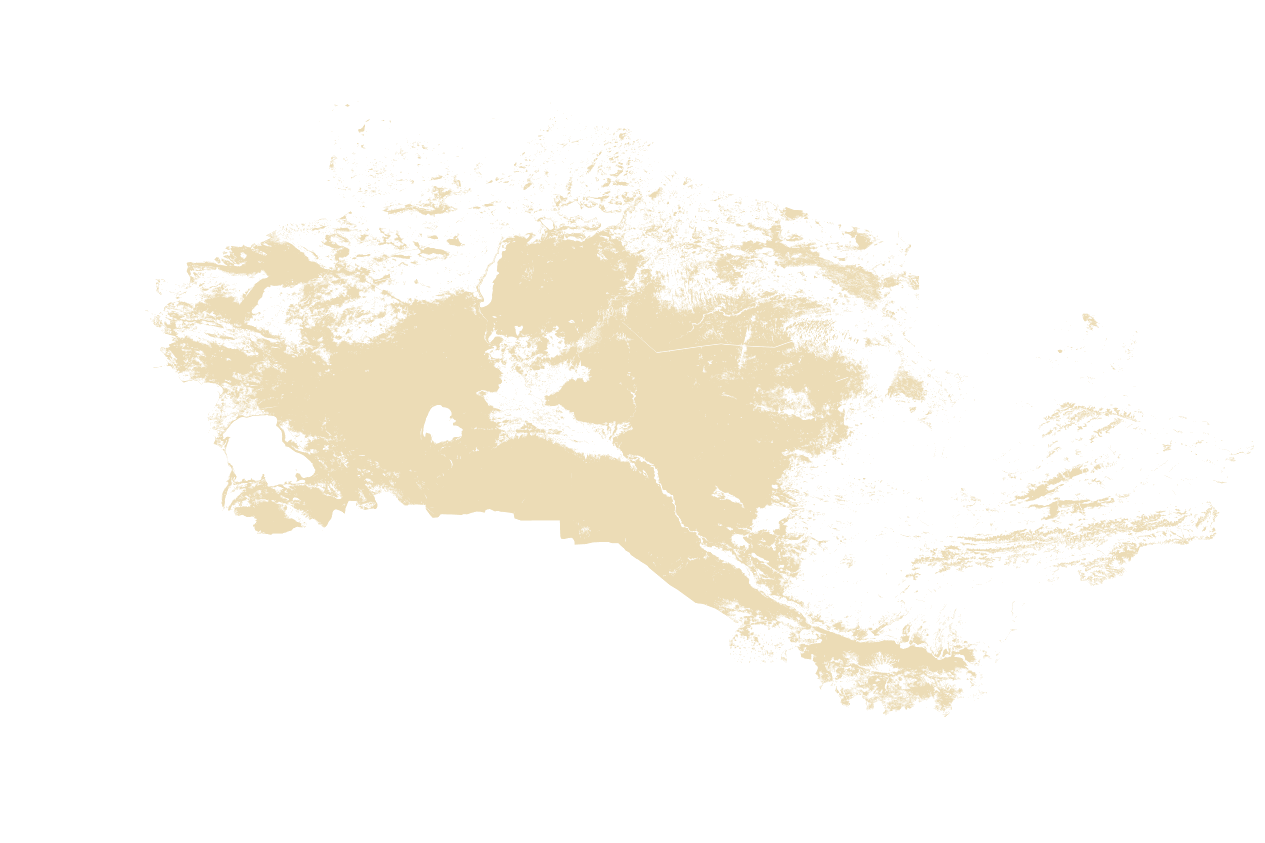
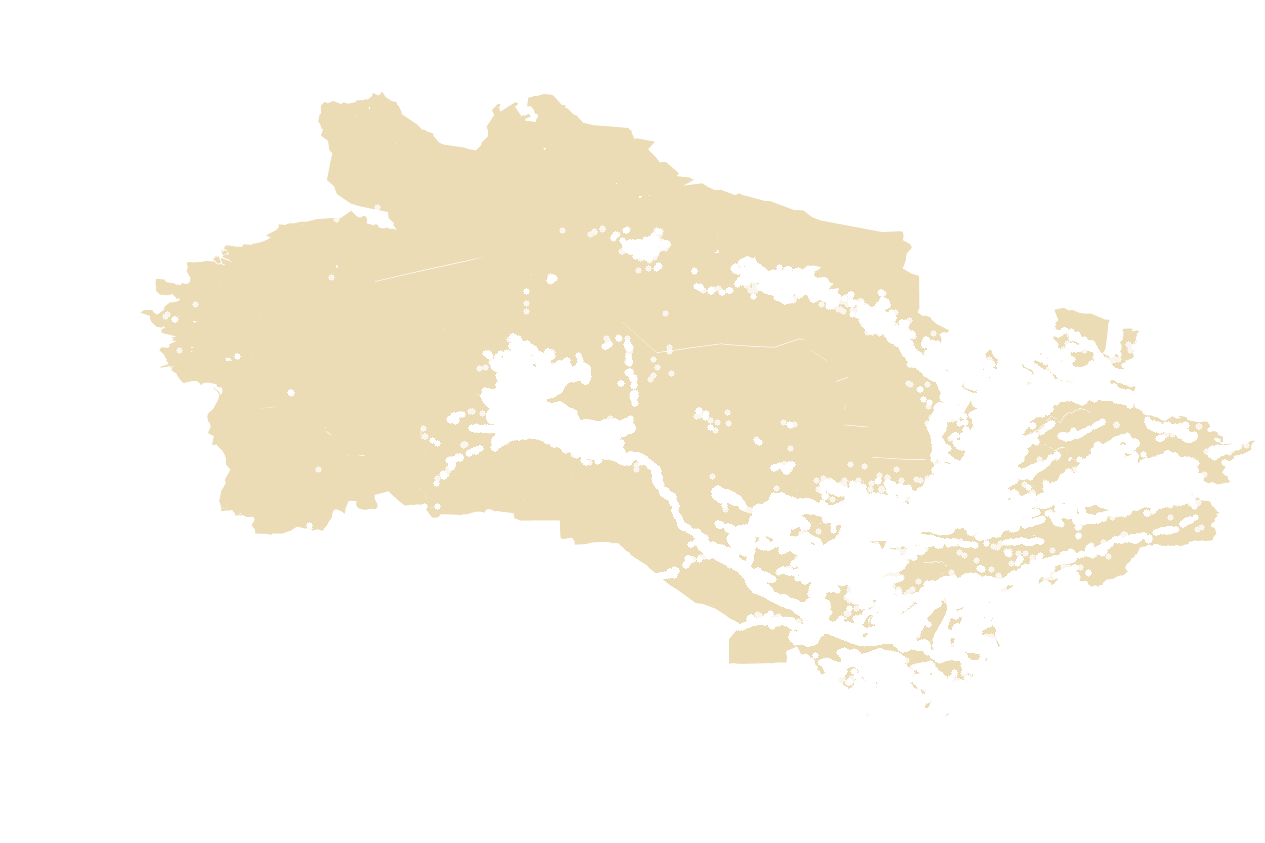
Фенологик харита: экин майдони йўқ ҳамма жой рангсиз (Қўнғирот шимоли) (#73)
Чўл қатлами олдин фақат очиқ чўлни (WorldCover синф 60) ёпарди; Қўнғирот
шимолидаги Устюрт дашти (синф 30, ўтлоқ) туман ранги билан қизил қолган
эди. Энди экин майдонидан ~6 км узоқдаги барча ер (чўл, дашт, бута, тоғ,
сув) рангсизланади; шаҳарлар очиқ қолади. Прогноз нуқталари ўзгармади.

Claude-Session: https://claude.ai/code/session_014j5XR2QLRVf7VUAkdAPGwJ

Changed region(s): [[0.1233, 0.0925, 0.9866, 0.8636], [0.5549, 0.4935, 0.5858, 0.5243]]

diff --git a/plant-protection/fenologik.ru.html b/plant-protection/fenologik.ru.html
@@ -152,7 +152,7 @@
         <div class="lg"><i style="background:#de2d26"></i><b>5</b></div>
         <div class="lg"><i style="background:#a50f15"></i><b>6+</b></div>
         <div class="lg"><i style="background:#90a4ae"></i><b>❄ Неактивен (зимовка)</b></div>
-        <div class="lg"><i style="background:#ead9b0"></i><b>🏜 Пустыня (ESA WorldCover) / нет посевов</b></div>
+        <div class="lg"><i style="background:#ead9b0"></i><b>🏜 Нет посевов (пустыня, степь, горы — ESA WorldCover)</b></div>
         <div class="lg"><i style="background:#fff;border:2px solid #e65100"></i><b>⚠ Окно обработки открыто</b></div>
         <div class="lg"><i style="background:#e3e8ea;border:1.5px dashed #607d8b"></i><b>Районы соседних стран</b></div>
       </div>
@@ -173,7 +173,7 @@
 <script src="js/main.js?v=2"></script>
 <script src="js/uz-districts.js?v=3"></script>
 <script src="js/uz-geo.js?v=1"></script>
-<script src="js/fenologik.js?v=20"></script>
+<script src="js/fenologik.js?v=21"></script>
 <script src="js/counter.js?v=1"></script>
 </body>
 </html>

diff --git a/plant-protection/fenologik.html b/plant-protection/fenologik.html
@@ -152,7 +152,7 @@
         <div class="lg"><i style="background:#de2d26"></i><b>5</b></div>
         <div class="lg"><i style="background:#a50f15"></i><b>6+</b></div>
         <div class="lg"><i style="background:#90a4ae"></i><b>❄ Фаол эмас (қишлов)</b></div>
-        <div class="lg"><i style="background:#ead9b0"></i><b>🏜 Чўл (ESA WorldCover) / экин майдони йўқ</b></div>
+        <div class="lg"><i style="background:#ead9b0"></i><b>🏜 Экин майдони йўқ (чўл, дашт, тоғ — ESA WorldCover)</b></div>
         <div class="lg"><i style="background:#fff;border:2px solid #e65100"></i><b>⚠ Ишлов бериш ойнаси очиқ</b></div>
         <div class="lg"><i style="background:#e3e8ea;border:1.5px dashed #607d8b"></i><b>Қўшни давлат туманлари</b></div>
       </div>
@@ -173,7 +173,7 @@
 <script src="js/main.js?v=2"></script>
 <script src="js/uz-districts.js?v=3"></script>
 <script src="js/uz-geo.js?v=1"></script>
-<script src="js/fenologik.js?v=20"></script>
+<script src="js/fenologik.js?v=21"></script>
 <script src="js/counter.js?v=1"></script>
 </body>
 </html>

diff --git a/plant-protection/js/fenologik.js b/plant-protection/js/fenologik.js
@@ -654,7 +654,7 @@
   function addDesertLayer(X) {
     var m = X && X.desertMask; if (!m || svg.querySelector("#desertlayer")) return;
     var im = document.createElementNS(ns, "image");
-    im.setAttribute("id", "desertlayer"); im.setAttribute("href", m.png + "?v=1");
+    im.setAttribute("id", "desertlayer"); im.setAttribute("href", m.png + "?v=2");
     im.setAttribute("x", (m.w - PX0) * PS); im.setAttribute("y", (PY0 - m.n) * PS);
     im.setAttribute("width", (m.e - m.w) * PS); im.setAttribute("height", (m.n - m.s) * PS);
     im.setAttribute("preserveAspectRatio", "none"); im.setAttribute("style", "pointer-events:none");

diff --git a/scripts/build-landcover.py b/scripts/build-landcover.py
@@ -38,6 +38,7 @@ P = os.path.join(ROOT, "plant-protection")
 OUT = os.path.join(P, "data", "wx-points.json")
 MASK = os.path.join(P, "data", "desert-mask.png")
 MASK_RES = 0.02  # чўл қатлами пиксели (°) ≈ 2 км
+CROP_NEAR_KM = float(os.environ.get("CROP_NEAR_KM", "6"))  # экиндан шунча км узоқ ер — рангсиз
 URL = "/vsicurl/https://esa-worldcover.s3.eu-central-1.amazonaws.com/v200/2021/map/ESA_WorldCover_10m_2021_v200_%s_Map.tif"
 DEC = 32                      # 10 м × 32 ≈ 300 м пиксел
 PX = 3.0 / (36000 // DEC)     # пиксел ўлчами (градус)
@@ -126,9 +127,22 @@ def main():
     from PIL import Image
     f = max(1, int(round(MASK_RES / PX)))
     Hm, Wm = H // f, W // f
-    bare = (lc[:Hm * f, :Wm * f] == BARE).reshape(Hm, f, Wm, f).mean(axis=(1, 3))
+    sub = lc[:Hm * f, :Wm * f]
+    cropf = (sub == CROP).reshape(Hm, f, Wm, f).mean(axis=(1, 3))
+    builtf = (sub == BUILT).reshape(Hm, f, Wm, f).mean(axis=(1, 3))
     inside = (ids[:Hm * f, :Wm * f] > 0).reshape(Hm, f, Wm, f).mean(axis=(1, 3))
-    alpha = np.clip(bare * inside * 1.15, 0, 1)
+    # экин майдонига яқинлик: CROP_NEAR_KM радиусдаги энг катта экин улуши
+    # (чўл, дашт, бута, тоғ, сув — экин йўқ ҳамма жой ёпилади; масалан
+    # Қўнғирот шимолидаги Устюрт дашти (синф 30) олдин рангли қолган эди)
+    rad = max(1, int(round(CROP_NEAR_KM / (MASK_RES * 111.32))))
+    pad = np.pad(cropf, rad)
+    near = np.zeros_like(cropf)
+    for dy in range(-rad, rad + 1):
+        for dx in range(-rad, rad + 1):
+            if dy * dy + dx * dx <= rad * rad:
+                near = np.maximum(near, pad[rad + dy:rad + dy + Hm, rad + dx:rad + dx + Wm])
+    nocrop = 1 - np.clip(near / 0.02, 0, 1)        # 2% экин бўлса — экин зонаси
+    alpha = np.clip(nocrop * (1 - builtf * 3) * inside * 1.15, 0, 1)
     alpha[alpha < 0.12] = 0
     rgba = np.zeros((Hm, Wm, 4), dtype=np.uint8)
     rgba[..., 0], rgba[..., 1], rgba[..., 2] = 0xEA, 0xD9, 0xB0
